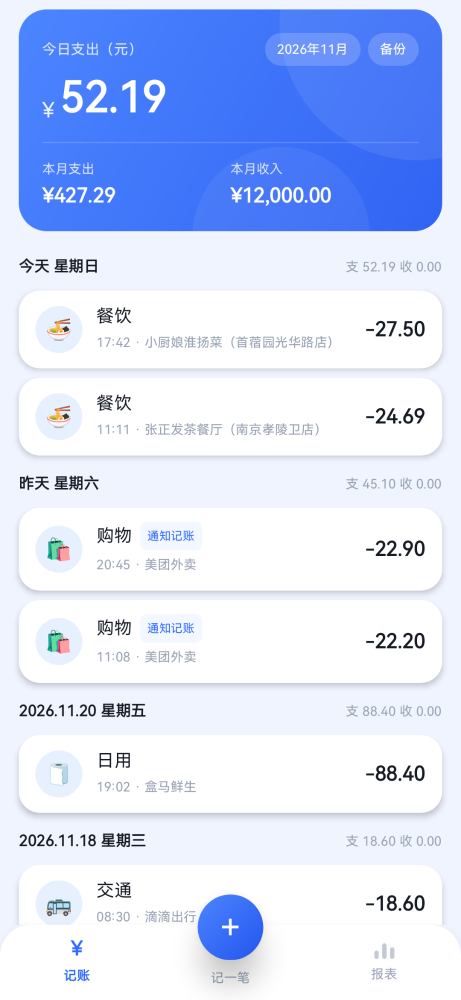
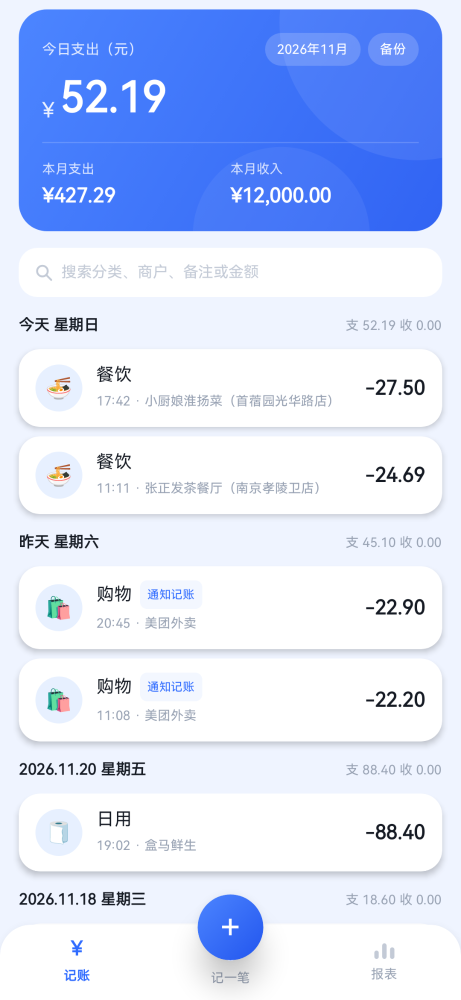
feat(home): 支持搜索分类/商户/备注/账户/金额
- HomeFilter 纯函数匹配，忽略大小写，金额支持 35 与 35.00 两种写法
- HomeViewModel 引入 query 流，过滤只作用于列表，头部合计仍按全部数据
- 首页新增搜索框（含放大镜图标与一键清空），搜不到时显示专门的空状态
- 8 个过滤单元测试；重录首页快照与 README 截图

diff --git a/app/src/main/java/com/aiaccounting/ui/home/HomeScreen.kt b/app/src/main/java/com/aiaccounting/ui/home/HomeScreen.kt
@@ -18,6 +18,7 @@ import androidx.compose.foundation.layout.width
 import androidx.compose.foundation.lazy.LazyColumn
 import androidx.compose.foundation.lazy.items
 import androidx.compose.foundation.shape.RoundedCornerShape
+import androidx.compose.foundation.text.BasicTextField
 import androidx.compose.material3.Text
 import androidx.compose.runtime.Composable
 import androidx.compose.ui.Alignment
@@ -26,6 +27,11 @@ import androidx.compose.ui.draw.clip
 import androidx.compose.ui.geometry.Offset
 import androidx.compose.ui.graphics.Brush
 import androidx.compose.ui.graphics.Color
+import androidx.compose.ui.graphics.SolidColor
+import androidx.compose.ui.graphics.StrokeCap
+import androidx.compose.ui.graphics.drawscope.Stroke
+import androidx.compose.ui.platform.testTag
+import androidx.compose.ui.text.TextStyle
 import androidx.compose.ui.text.font.FontWeight
 import androidx.compose.ui.unit.dp
 import androidx.compose.ui.unit.sp
@@ -40,6 +46,7 @@ import com.aiaccounting.ui.components.EmojiBadge
 import com.aiaccounting.ui.components.EmptyBlock
 import com.aiaccounting.ui.components.SoftCard
 import com.aiaccounting.ui.components.SourceChip
+import com.aiaccounting.ui.theme.BrandBlue
 import com.aiaccounting.ui.theme.IncomeGreen
 import com.aiaccounting.ui.theme.TextFaint
 import com.aiaccounting.ui.theme.TextMain
@@ -52,6 +59,7 @@ fun HomeScreen(
     modifier: Modifier = Modifier,
     onTxClick: (Tx) -> Unit = {},
     onBackupClick: () -> Unit = {},
+    onQueryChange: (String) -> Unit = {},
 ) {
     LazyColumn(
         modifier = modifier.fillMaxSize(),
@@ -63,13 +71,21 @@ fun HomeScreen(
             Spacer(Modifier.height(6.dp))
         }
 
+        item(key = "search") {
+            SearchBar(query = state.query, onQueryChange = onQueryChange)
+        }
+
         if (state.sections.isEmpty()) {
             item(key = "empty") {
                 SoftCard(modifier = Modifier.fillMaxWidth()) {
                     EmptyBlock(
-                        emoji = "🧾",
-                        title = if (state.loaded) "还没有记录" else "正在加载…",
-                        hint = "点下面的 + 记第一笔",
+                        emoji = if (state.isSearching) "🔍" else "🧾",
+                        title = when {
+                            !state.loaded -> "正在加载…"
+                            state.isSearching -> "没有匹配的记录"
+                            else -> "还没有记录"
+                        },
+                        hint = if (state.isSearching) "换个关键词试试" else "点下面的 + 记第一笔",
                     )
                 }
             }
@@ -83,6 +99,73 @@ fun HomeScreen(
                 }
             }
         }
+    }
+}
+
+@Composable
+private fun SearchBar(query: String, onQueryChange: (String) -> Unit) {
+    Row(
+        modifier = Modifier
+            .fillMaxWidth()
+            .clip(RoundedCornerShape(16.dp))
+            .background(Color.White)
+            .padding(horizontal = 14.dp, vertical = 11.dp),
+        verticalAlignment = Alignment.CenterVertically,
+    ) {
+        MagnifierGlyph(color = TextFaint)
+        Spacer(Modifier.width(8.dp))
+        BasicTextField(
+            value = query,
+            onValueChange = onQueryChange,
+            modifier = Modifier.weight(1f),
+            singleLine = true,
+            textStyle = TextStyle(fontSize = 13.sp, color = TextMain),
+            cursorBrush = SolidColor(BrandBlue),
+            decorationBox = { inner ->
+                Box {
+                    if (query.isEmpty()) {
+                        Text(
+                            text = "搜索分类、商户、备注或金额",
+                            fontSize = 13.sp,
+                            color = TextFaint,
+                        )
+                    }
+                    inner()
+                }
+            },
+        )
+        if (query.isNotEmpty()) {
+            Text(
+                text = "✕",
+                fontSize = 13.sp,
+                color = TextSub,
+                modifier = Modifier
+                    .testTag("searchClear")
+                    .clip(RoundedCornerShape(50))
+                    .clickable { onQueryChange("") }
+                    .padding(horizontal = 6.dp, vertical = 2.dp),
+            )
+        }
+    }
+}
+
+@Composable
+private fun MagnifierGlyph(color: Color) {
+    Canvas(modifier = Modifier.size(14.dp)) {
+        val stroke = 1.6.dp.toPx()
+        drawCircle(
+            color = color,
+            radius = size.minDimension * 0.32f,
+            center = Offset(size.width * 0.42f, size.height * 0.42f),
+            style = Stroke(width = stroke),
+        )
+        drawLine(
+            color = color,
+            start = Offset(size.width * 0.64f, size.height * 0.64f),
+            end = Offset(size.width * 0.95f, size.height * 0.95f),
+            strokeWidth = stroke,
+            cap = StrokeCap.Round,
+        )
     }
 }
 

diff --git a/app/src/test/java/com/aiaccounting/domain/HomeFilterTest.kt b/app/src/test/java/com/aiaccounting/domain/HomeFilterTest.kt
@@ -1,0 +1,88 @@
+package com.aiaccounting.domain
+
+import org.junit.Assert.assertEquals
+import org.junit.Assert.assertTrue
+import org.junit.Test
+
+class HomeFilterTest {
+
+    private fun tx(
+        id: Long,
+        category: String = "餐饮",
+        merchant: String? = null,
+        note: String? = null,
+        account: String = "微信",
+        cents: Long = 5250,
+        type: TxType = TxType.EXPENSE,
+    ) = Tx(
+        id = id,
+        type = type,
+        amountCents = cents,
+        occurredAt = 1_700_000_000_000,
+        categoryId = 1,
+        categoryName = category,
+        categoryEmoji = "🍜",
+        accountId = 1,
+        accountName = account,
+        merchant = merchant,
+        note = note,
+    )
+
+    private val samples = listOf(
+        tx(1, category = "餐饮", merchant = "瑞幸咖啡"),
+        tx(2, category = "交通", merchant = "滴滴出行"),
+        tx(3, category = "购物", merchant = "京东", note = "买键盘"),
+        tx(4, category = "餐饮", merchant = "星巴克", cents = 3500),
+    )
+
+    @Test
+    fun `空查询返回全部`() {
+        assertEquals(4, HomeFilter.apply(samples, "").size)
+        assertEquals(4, HomeFilter.apply(samples, "   ").size)
+    }
+
+    @Test
+    fun `按分类名搜`() {
+        val result = HomeFilter.apply(samples, "餐饮")
+        assertEquals(2, result.size)
+        assertTrue(result.all { it.categoryName == "餐饮" })
+    }
+
+    @Test
+    fun `按商户搜且忽略大小写`() {
+        val withAscii = samples + tx(9, merchant = "Starbucks")
+
+        assertEquals(1, HomeFilter.apply(samples, "瑞幸").size)
+        assertEquals(1, HomeFilter.apply(withAscii, "starbucks").size)
+        assertEquals(1, HomeFilter.apply(withAscii, "STARBUCKS").size)
+    }
+
+    @Test
+    fun `按备注搜`() {
+        val result = HomeFilter.apply(samples, "键盘")
+        assertEquals(1, result.size)
+        assertEquals(3L, result.first().id)
+    }
+
+    @Test
+    fun `按账户名搜`() {
+        val others = samples + tx(5, merchant = "现金支付", account = "现金")
+        assertEquals(1, HomeFilter.apply(others, "现金").size)
+    }
+
+    @Test
+    fun `按金额搜`() {
+        assertEquals(1, HomeFilter.apply(samples, "35.00").size)
+        assertEquals(1, HomeFilter.apply(samples, "35").size)
+    }
+
+    @Test
+    fun `搜不到时返回空`() {
+        assertTrue(HomeFilter.apply(samples, "不存在的词").isEmpty())
+    }
+
+    @Test
+    fun `查询前后的空格被忽略`() {
+        assertEquals(1, HomeFilter.apply(samples, "  瑞幸  ").size)
+    }
+}

diff --git a/app/src/main/java/com/aiaccounting/ui/home/HomeViewModel.kt b/app/src/main/java/com/aiaccounting/ui/home/HomeViewModel.kt
@@ -7,11 +7,13 @@ import androidx.lifecycle.viewmodel.initializer
 import androidx.lifecycle.viewmodel.viewModelFactory
 import com.aiaccounting.data.AccountingRepository
 import com.aiaccounting.domain.DaySection
+import com.aiaccounting.domain.HomeFilter
 import com.aiaccounting.domain.HomeGrouper
 import com.aiaccounting.domain.HomeSummary
+import kotlinx.coroutines.flow.MutableStateFlow
 import kotlinx.coroutines.flow.SharingStarted
 import kotlinx.coroutines.flow.StateFlow
-import kotlinx.coroutines.flow.map
+import kotlinx.coroutines.flow.combine
 import kotlinx.coroutines.flow.stateIn
 import java.time.LocalDate
 import java.time.ZoneId
@@ -20,22 +22,34 @@ data class HomeUiState(
     val sections: List<DaySection> = emptyList(),
     val summary: HomeSummary = HomeSummary(),
     val loaded: Boolean = false,
-)
+    val query: String = "",
+) {
+    val isSearching: Boolean get() = query.isNotBlank()
+}
 
 class HomeViewModel(private val repository: AccountingRepository) : ViewModel() {
 
     private val zone: ZoneId = ZoneId.systemDefault()
+    private val query = MutableStateFlow("")
 
-    val uiState: StateFlow<HomeUiState> = repository.observeTransactions()
-        .map { txs ->
-            val today = LocalDate.now(zone)
-            HomeUiState(
-                sections = HomeGrouper.group(txs, today, zone),
-                summary = HomeGrouper.summary(txs, today, zone),
-                loaded = true,
-            )
-        }
-        .stateIn(viewModelScope, SharingStarted.WhileSubscribed(5_000), HomeUiState())
+    val uiState: StateFlow<HomeUiState> = combine(
+        repository.observeTransactions(),
+        query,
+    ) { txs, currentQuery ->
+        val today = LocalDate.now(zone)
+        val visible = HomeFilter.apply(txs, currentQuery)
+        HomeUiState(
+            sections = HomeGrouper.group(visible, today, zone),
+            // 头部的今日/本月数字始终按全部数据算，搜索时不跟着变小
+            summary = HomeGrouper.summary(txs, today, zone),
+            loaded = true,
+            query = currentQuery,
+        )
+    }.stateIn(viewModelScope, SharingStarted.WhileSubscribed(5_000), HomeUiState())
+
+    fun onQueryChange(value: String) {
+        query.value = value
+    }
 
     companion object {
         fun factory(repository: AccountingRepository): ViewModelProvider.Factory = viewModelFactory {

diff --git a/app/src/main/java/com/aiaccounting/domain/HomeFilter.kt b/app/src/main/java/com/aiaccounting/domain/HomeFilter.kt
@@ -1,0 +1,33 @@
+package com.aiaccounting.domain
+
+import com.aiaccounting.core.Money
+
+/**
+ * 首页搜索的匹配规则。
+ *
+ * 搜得到的东西要符合直觉：分类名、商户、备注、账户名，以及金额本身
+ * （输入 52.5 能找到 52.50 那笔）。纯函数，方便单元测试。
+ */
+object HomeFilter {
+
+    fun apply(txs: List<Tx>, query: String): List<Tx> {
+        val trimmed = query.trim()
+        if (trimmed.isEmpty()) return txs
+        return txs.filter { matches(it, trimmed) }
+    }
+
+    fun matches(tx: Tx, query: String): Boolean {
+        val haystack = buildString {
+            append(tx.categoryName)
+            append(' ')
+            append(tx.accountName)
+            tx.merchant?.let { append(' ').append(it) }
+            tx.note?.let { append(' ').append(it) }
+            append(' ')
+            append(Money.plain(tx.amountCents))
+            append(' ')
+            append(Money.format(tx.amountCents))
+        }
+        return haystack.contains(query, ignoreCase = true)
+    }
+}

diff --git a/app/src/main/java/com/aiaccounting/ui/AppRoot.kt b/app/src/main/java/com/aiaccounting/ui/AppRoot.kt
@@ -200,6 +200,7 @@ fun AppRoot() {
                     backupMessage = null
                     showBackup = true
                 },
+                onQueryChange = homeViewModel::onQueryChange,
             )
 
             else -> ReportScreen(

diff --git a/README.md b/README.md
@@ -84,6 +84,7 @@ app/src/main/java/com/aiaccounting/
 - 首页按天分组展示流水，显示今日支出、本月支出、本月收入
 - 报表支持周/月/年切换与前后翻页，含支出趋势、分类占比、与上期比较
 - **点任意一条流水即可编辑**（金额/分类/账户/备注/时间）**或删除**，编辑不会破坏来源与去重指纹
+- **搜索**：按分类、商户、备注、账户名或金额筛选，头部今日/本月合计始终按全部数据算
 - **备份与恢复**：首页右上角「备份」可把全部流水导出成 CSV（Excel 能直接打开），也能从 CSV 覆盖恢复；走系统文件选择器，不需要存储权限
 - **WebDAV 云备份**：填坚果云地址 + 应用密码即可上传/恢复，可开「自动备份」——每次保存、删除、恢复后自动推一份到网盘。客户端是自己实现的（`HttpURLConnection` + Basic 认证），没引三方库
 - 三路来源的数据模型已经预留：`TransactionEntity` 有 `source`（手动/通知/导入）、`dedupKey`、`status`，`AccountingRepository.addCapturedTransaction()` 已实现「同指纹不重复入库」
